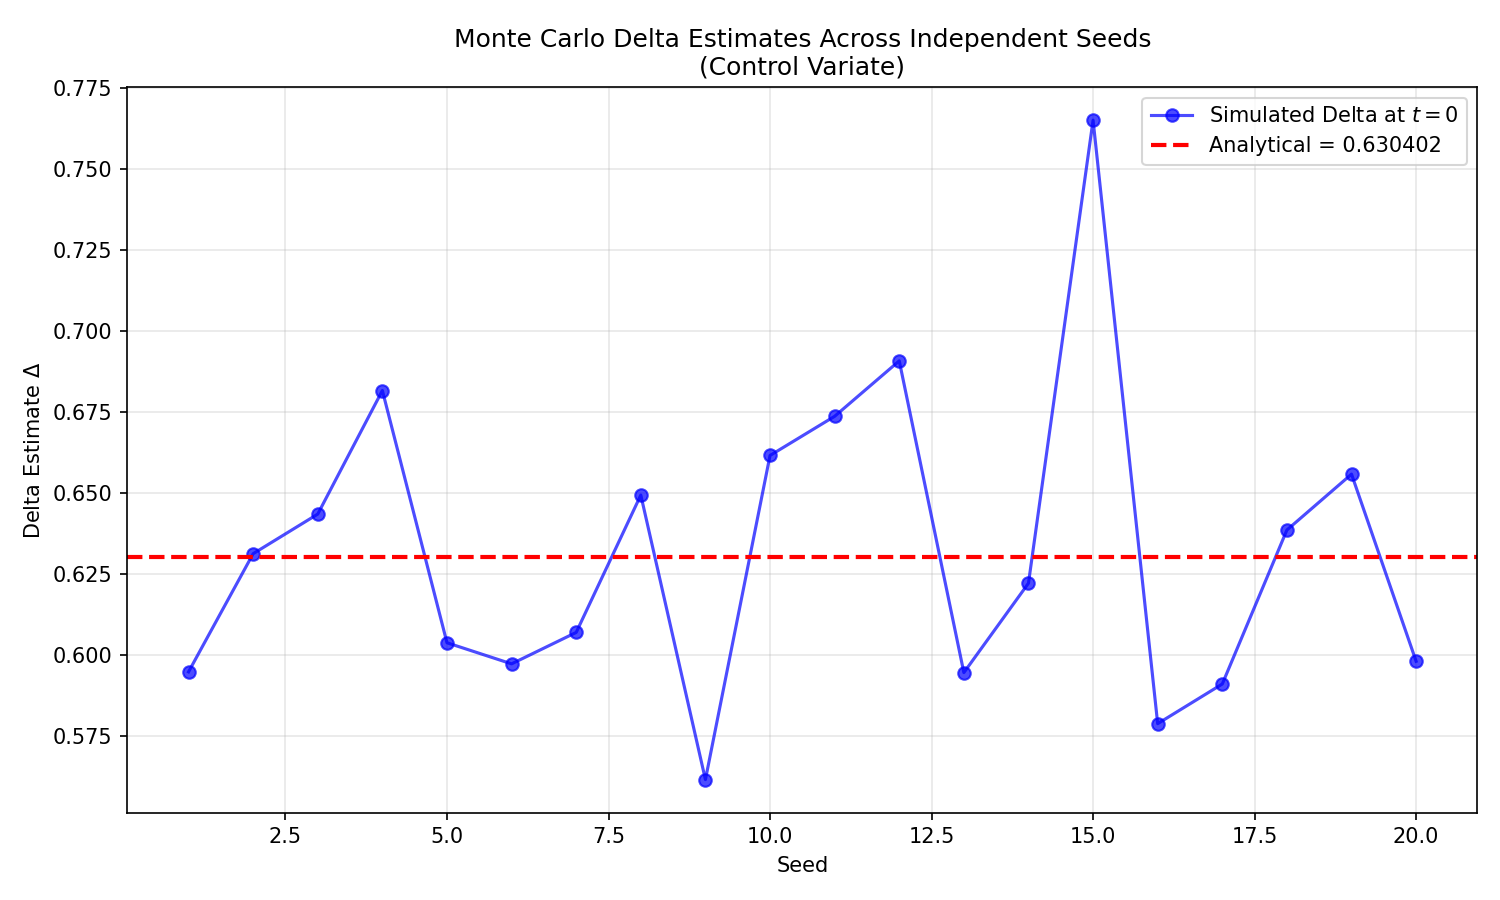
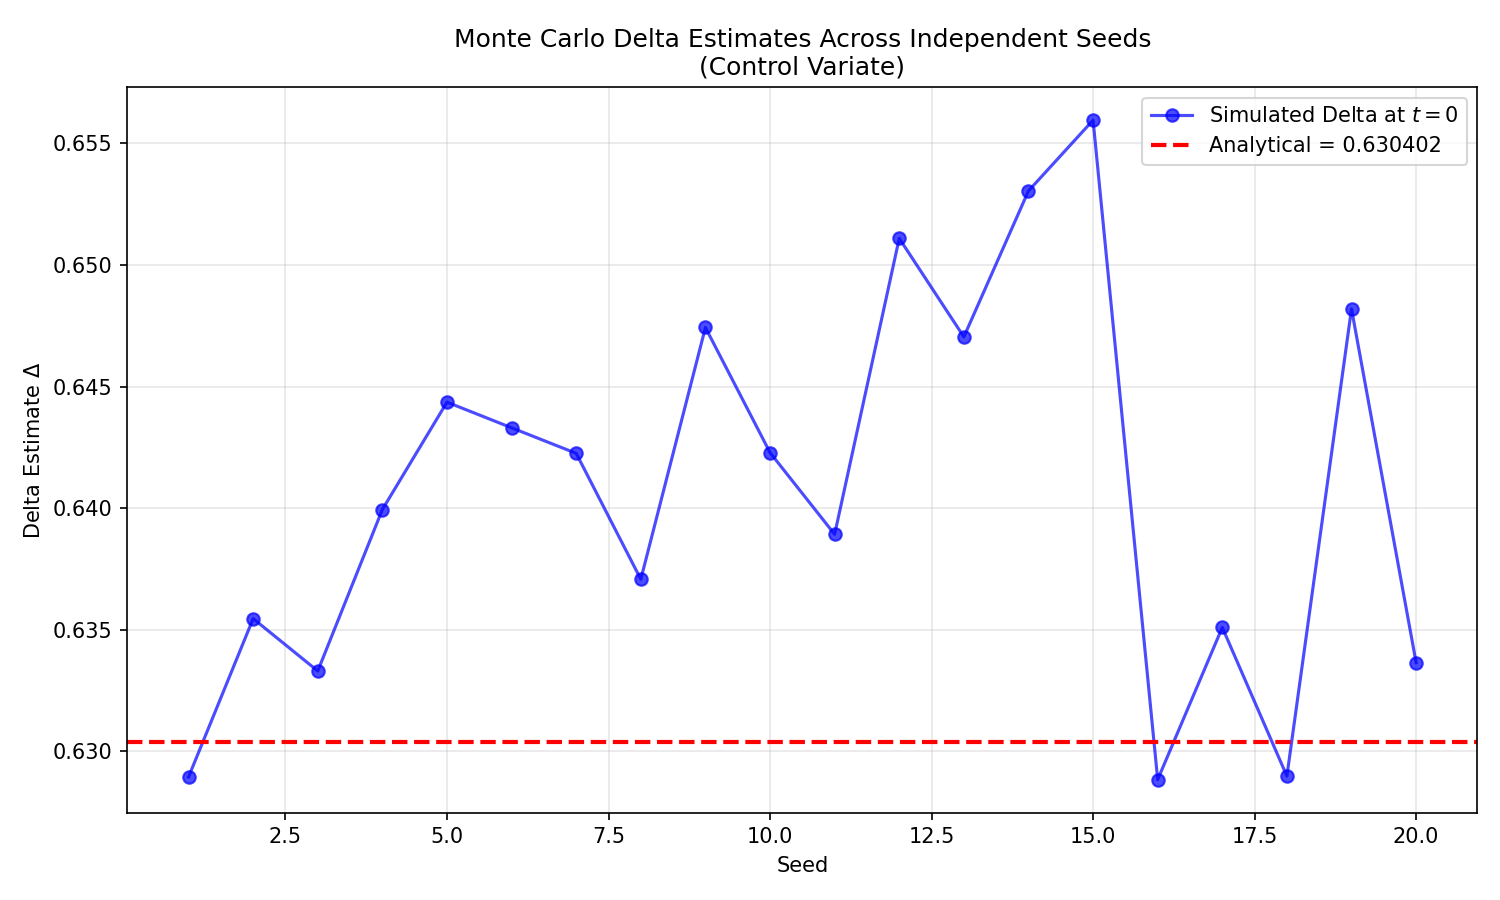
ran 10k steps and saved outputs

diff --git a/main.py b/main.py
@@ -70,7 +70,7 @@ if __name__ == "__main__":
     print("Monte Carlo Pricing")
     print("-"*80)
     
-    N_paths_MC = 100
+    N_paths_MC = 10000
     path_counts_analytic = 10000
     paths_to_print = np.logspace(np.log10(100), np.log10(10000), num=6, dtype=int)
     #print(f"\nUsing {N_paths:,} paths...")
@@ -117,8 +117,8 @@ if __name__ == "__main__":
     print(f"Summary statistics on {len(seeds)} number of simulations of {N_paths_MC} paths each with techniques:")
     print("-"*80)
     
-    # for i in range(3):
-    #     plotter.plot_mc_delta_estimates(simulator, model, N_paths=N_paths_MC, seeds=seeds, tech=i+1)
+    for i in range(3):
+        plotter.plot_mc_delta_estimates(simulator, model, N_paths=N_paths_MC, seeds=seeds, tech=i+1)
 
     print("\n" + "-"*80)
     print(f"Plotting trajectory of portfolio with {len(seeds)} number of simulations of {20} paths each with techniques:")

diff --git a/Heston_plots_class.py b/Heston_plots_class.py
@@ -145,7 +145,7 @@ class HestonPlots:
         print(f"\n{tech_name_full}")
         print(f"  Analytical Delta:          {true_delta:.6f}")
         print(f"  Average Simulated Delta:   {mean_delta:.6f}")
-        print(f"  Estimator Variance:        {estimator_variance:.6e}%") 
+        print(f"  Estimator Variance:        {estimator_variance:.6f}%") 
         print(f"  Average Relative Error:    {mean_relative_error:.6f}%")
         print(f"  Average Relative Bias:     {relative_ave_bias:.6f}%")
         print(f"  Computation Time:          {elapsed:.2f} seconds")
